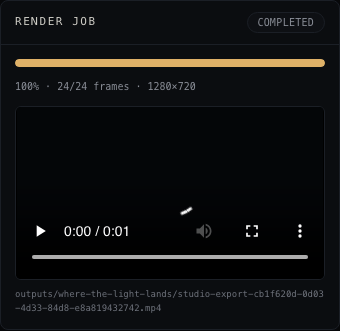
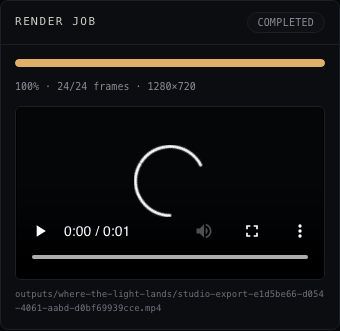
docs(report): record phase 4 completion

diff --git a/docs/reports/PHASE_04_REPORT.md b/docs/reports/PHASE_04_REPORT.md
@@ -1,0 +1,379 @@
+# Phase 4 Report — Zero-API-Cost Animation Engine & 30-Second Story
+
+- **Phase:** 4 — Local composition, motion, camera, and offline film export
+- **Date:** 2026-11-10
+- **Branch:** `main`
+- **Starting HEAD:** `3fc53015530f911bb1c77fbf3865f6cbc6a21b02`
+- **Final implementation HEAD before this report:** `38b6ff03501b102a1ac932002c5f80d48c66963b`
+- **Report commit:** the commit containing this report
+- **Paid API calls:** **0**
+- **Remote push:** **None**
+- **Phase 5:** **Not started**
+
+## A. Executive Summary
+
+Fableon can now produce a complete **30.000-second, 1920×1080, 24 fps MP4** entirely
+locally.
+
+The film **Where the Light Lands** contains four deterministic shots:
+
+1. Awakening Forest
+2. Little Bird in Flight
+3. The Landing
+4. A Place to Rest
+
+It uses the existing nine-part Little Bird rig, a reusable motion-preset package, a
+deterministic cinematic camera, a conservative two-plane parallax environment, seeded
+ambient effects, explicit transitions and titles, and a single Canvas 2D renderer shared by
+the Studio preview and the offline exporter. Chromium rasterizes frames; FFmpeg encodes the
+MP4. No paid image/video provider or cloud renderer is contacted.
+
+The final MP4 was decoded end to end and verified:
+
+```text
+Path: outputs/where-the-light-lands/final.mp4
+Duration: 30.000 s
+Frames: 720
+FPS: 24
+Resolution: 1920×1080
+Codec: H.264
+Audio: none
+Decode check: PASS (exit 0)
+SHA-256: 61ef10891b96d09eeb06d88bf8bcd9b2477b30514ff87b9d5e64a8e8ea88bf62
+```
+
+Artistic quality is **not self-certified**. The character remains candidate artwork with
+visible cutout seams and fringing. The film is an engineering-complete local production
+milestone and a reviewable storybook animatic, not production-ready illustration.
+
+## B. Repository State
+
+- **Starting branch:** `main`
+- **Starting working tree:** clean
+- **Starting HEAD:** `3fc5301` — Phase 3 completion report
+- **Final implementation HEAD before report:** `38b6ff0`
+- **Final report commit:** this commit
+- **Working tree after the report:** clean
+
+All Phase 0–3 systems remain present:
+
+- `/` homepage
+- `/studio` deterministic timeline inspector
+- `/studio/assets` illustration preparation workspace
+- `/studio/projects` and Phase 3 shot/review workspace
+- all Phase 2, 2.5, 2.6, and 2.7 Gate 2 benchmark routes
+- historical benchmark artifacts and project data
+
+No scene-schema contract was replaced. No historical benchmark media was modified.
+
+## C. Feature Implementation
+
+| Feature                    | Commit                                                                                 | Implementation                                                                                                                                   | Tests / acceptance                                                                                                           |
+| -------------------------- | -------------------------------------------------------------------------------------- | ------------------------------------------------------------------------------------------------------------------------------------------------ | ---------------------------------------------------------------------------------------------------------------------------- |
+| 4.1 Multi-shot timeline    | `571a62837b33d403763e1c8fb99efb1c18ae0759`                                             | `packages/composition-core`: contiguous shot validation, global/local frame mapping, 720-frame timeline, explicit transitions, title evaluation  | 7 tests: boundaries 0/143/144/359/360/527/528/719, invalid frames, determinism, immutability, transition and title semantics |
+| 4.2 Camera engine          | `caf81cb91005d129dbde792cc6a567533fb205ea`                                             | `packages/camera-engine`: pan/zoom/target, bounds clamping, easing, world/screen transforms, parallax matrices                                   | 5 tests: interpolation, bounds, transforms, relative depth movement, determinism                                             |
+| 4.3 Layered parallax       | `4bea2059e7a937fc55a7befdfd8f32a11b8cf89e`                                             | `apps/web/lib/film/environment.ts`: two-plane environment contract and camera-space layer transforms                                             | 2 tests: layer ordering and relative movement                                                                                |
+| 4.4 Reusable motion        | `20486bbae431dc6776a9c79e9bd5a42a08553cd3`                                             | `packages/character-motion`: nine-part base rig, flight/glide/landing/idle presets, exact foot-contact solver                                    | 8 tests: rig, wing articulation, path, contact stability, reuse, idle blink, determinism, no mutation                        |
+| 4.5 Ambient forest         | `3c2d38d425c2f77120b8a2547fd2daab7c5cbcb1`                                             | `apps/web/lib/film/ambient.ts`: seeded pollen, leaves, sunlight and mist evaluated from absolute frames                                          | 2 tests: direct-frame stability and seed determinism                                                                         |
+| 4.6 Transitions and titles | `f3f73b97a491606414fd5732e7bc5750a2681628`                                             | Title wrapping/layout and explicit composition transition semantics                                                                              | 3 title layout tests plus 7 composition timeline tests                                                                       |
+| 4.7 Offline export         | `f63575cc3a74fcabb353048a3217e672dc0715fd`                                             | Shared `FilmRenderer`, four-shot spec, Chromium frame rasterization, FFmpeg image2pipe encode, ffprobe/decode verification, artifacts, manifests | Checkpoint 5 s and full 30 s renders; 720 frames decoded; 1920×1080/24 fps/30.000 s verified                                 |
+| 4.8 Studio composition     | `fc052785fac1700013b642afd3389a9e019dc45c`                                             | `/studio/composition` Canvas preview, shot navigation, scrub/play, resolution selector, export controls, job polling/cancel/video service        | Browser tests: load, four shots, boundaries, camera/wing/contact/title state, real 24-frame export and playable result       |
+| Studio fixes               | `2df14cc8ca419f158e3e6c1fc1b9f25eca466a1f`, `0fab3e4fd84a46acd02a94a688f2c12fa71a4a67` | Exposed frame/camera state, Phase 4 label, local-server reuse                                                                                    | Covered by Phase 4 browser tests                                                                                             |
+| 4.9 Demo story artifacts   | `01964b0a7fa9e2af51a2cd799fbf5b762a2d79e2`                                             | Storyboard, shot specification, provenance, quality assessment, selected frames, contact sheet, timeline diagram, performance/manifest copies    | All files verified on disk; final MP4 rendered and inspected                                                                 |
+| Formatting                 | `5e1ce60669562d3f5403515db6f040d7c1a83bfe`                                             | Prettier formatting for benchmark documents                                                                                                      | `format:check` pass                                                                                                          |
+| 4.10 Regression tests      | `057a4d72b81a63d0b87c76ead5bf42a8bdc769d7`                                             | Phase 4 browser suite, composition route regression, stable phase-02 route assertion                                                             | 51 browser tests pass; 247 unit tests pass                                                                                   |
+| Documentation              | `38b6ff03501b102a1ac932002c5f80d48c66963b`                                             | README and architecture update for the film pipeline                                                                                             | Documentation-only verification                                                                                              |
+
+## D. Architecture
+
+### Composition manifest
+
+`packages/composition-core` defines a film as ordered shots with integer start frames,
+frame counts, camera track IDs, character motion IDs, rendering method, transition-in,
+optional transition-out, and notes. It is additive and separate from the versioned
+Phase 1 scene schema and Phase 3 Studio project model.
+
+### Timeline
+
+`evaluateCompositionFrame(composition, globalFrame)` validates the entire composition and
+returns:
+
+- global frame;
+- shot and shot index;
+- local frame;
+- previous shot/local frame during a crossfade;
+- incoming/previous/black opacity;
+- active titles with opacity.
+
+Crossfades hold the previous shot's last frame for the first 12 frames of the incoming shot
+without changing the 720-frame output length. Fade-from-black and fade-to-black are also
+within the global frame budget.
+
+### Camera
+
+`packages/camera-engine` samples keyframed camera centers, zoom, and rotation with easing.
+It clamps the viewport inside the 2400×1350 world, exposes world/screen transforms, and
+provides depth-aware layer matrices. The camera is independent of the character rig.
+
+### Parallax
+
+The available source artwork is one painted forest plate derived from the Phase 2.8 start
+frame. The implementation is deliberately conservative:
+
+- a softened distant copy at depth 0.18;
+- the primary painted plate at depth 0.55;
+- screen-space light, mist, pollen, and leaf sway.
+
+This is documented as a two-plane approximation, not a repainted multilayer forest.
+
+### Motion
+
+`packages/character-motion` defines the reusable nine-part Little Bird base rig and four
+presets. It uses `@fableon/sprite-motion` hierarchy evaluation. The landing preset solves
+the body Y position so the lower foot is exactly at the branch world Y, preserving the
+contact guarantee. The historical Phase 2.5/2.7 benchmarks are untouched.
+
+### Ambient effects
+
+Ambient state is a pure function of absolute global frame and seed. Particles, leaves,
+sunlight, and mist do not accumulate state. Direct frame 400 evaluation is identical to
+repeated evaluation.
+
+### Renderer
+
+`apps/web/lib/film/renderer.ts` is the single Canvas 2D renderer used by:
+
+- `/studio/composition` preview;
+- `/studio/composition/render` export surface.
+
+It draws two environment planes, the posed character, atmosphere, titles, crossfades, and
+black fades into a canonical 1920×1080 canvas, then scales to the requested 16:9 output.
+
+### Export pipeline
+
+`scripts/render-phase-04.mjs`:
+
+1. starts or reuses a local Next server;
+2. loads the render surface in headless Chromium;
+3. requests each frame as a PNG data URL;
+4. streams PNG frames into local FFmpeg `image2pipe`;
+5. encodes H.264 MP4;
+6. runs ffprobe, frame-count, duration, resolution, codec, and full-decode checks;
+7. writes manifest/report/performance artifacts;
+8. records genuine progress to a persisted local job record.
+
+The Studio export API spawns the same script as a detached local process and polls its job
+file. It refuses a second active job, supports a cancellation flag, and serves the completed
+MP4 with byte-range support. Jobs are not claimed to survive server restarts.
+
+## E. Story Specification
+
+Full documents:
+
+- `docs/benchmarks/phase-04/STORYBOARD.md`
+- `docs/benchmarks/phase-04/SHOT_SPECIFICATION.md`
+
+| Shot                      | Frames  | Time    | Camera                            | Character                                                        | Atmosphere / title                                             |
+| ------------------------- | ------- | ------- | --------------------------------- | ---------------------------------------------------------------- | -------------------------------------------------------------- |
+| 1 — Awakening Forest      | 0–143   | 0–6 s   | Pan right, zoom 1.00→1.06         | none                                                             | Opening title 24–108; fade from black 12f; pollen, mist, light |
+| 2 — Little Bird in Flight | 144–359 | 6–15 s  | Follow left→right, zoom 1.02–1.04 | Flight preset, wing beats, tail follow, head stabilization       | 12f crossfade in; layered forest                               |
+| 3 — The Landing           | 360–527 | 15–22 s | Settle on branch, zoom 1.04→1.07  | Braking, leg extension, contact at global 470, wing fold, settle | 12f crossfade in; branch contact shadow                        |
+| 4 — A Place to Rest       | 528–719 | 22–30 s | Push-in 1.07→1.16                 | Idle breathing, tail/head adjustments, blink                     | 12f crossfade in; ending title 600–688; fade to black 24f      |
+
+The output is exactly 720 frames. The final frame is fully faded to black.
+
+## F. Rendering System
+
+- Canvas 2D, canonical 1920×1080, 24 fps.
+- Shared `FilmRenderer` and `evaluateFilmFrame` for preview and export.
+- Environment: two derived painted plates plus procedural atmosphere.
+- Character: nine-part hierarchical rig, candidate Phase 2.7 parts.
+- Titles: deterministic wrapping, fade opacity from composition evaluator.
+- Export: Chromium PNG frames → FFmpeg `image2pipe` → H.264 `yuv420p`, CRF 18,
+  `+faststart`.
+- Source media: local public assets; no remote URL fetching.
+- Determinism: integer frame indices, seeded ambient state, no wall-clock or accumulated
+  particle state.
+- Container bytes are not guaranteed identical across encoder environments; animation state
+  and frame order are deterministic.
+- Output is Git-ignored; review artifacts are committed.
+
+## G. Studio Integration
+
+Route: `/studio/composition`
+
+Features:
+
+- four-shot sequence cards with durations and frame ranges;
+- Canvas preview at 1280×720 or 1920×1080;
+- play/pause at 24 fps;
+- global frame scrubber with current time;
+- current shot/local frame/camera/wing/contact/title state;
+- local export range, resolution selector, start action;
+- polled genuine progress, cancel request, completed video preview;
+- clear error states and local-only/no-paid-API messaging.
+
+Screenshots:
+
+![Composition preview](phase-04/screenshots/composition-preview.png)
+
+![Composition export](phase-04/screenshots/composition-export.png)
+
+Existing Studio routes remain operational, including `/studio`, `/studio/assets`,
+`/studio/projects`, and all Phase 3 shot/review flows.
+
+## H. Generated Artifacts
+
+| Artifact           | Path                                                 | Verification                                                       |
+| ------------------ | ---------------------------------------------------- | ------------------------------------------------------------------ |
+| Final MP4          | `outputs/where-the-light-lands/final.mp4`            | 720 frames, 30.000 s, 1920×1080, 24 fps, H.264, full decode exit 0 |
[1 lines of base64/hex data omitted]
+| Render manifest    | `outputs/where-the-light-lands/render-manifest.json` | Copied to docs evidence                                            |
+| Render report      | `outputs/where-the-light-lands/render-report.json`   | Copied to docs evidence                                            |
+| Contact sheet      | `docs/benchmarks/phase-04/contact-sheet.png`         | 14 selected frames                                                 |
+| Selected frames    | `docs/benchmarks/phase-04/selected-frames/`          | 14 actual rendered frames                                          |
+| Storyboard         | `docs/benchmarks/phase-04/STORYBOARD.md`             | Present                                                            |
+| Shot specification | `docs/benchmarks/phase-04/SHOT_SPECIFICATION.md`     | Present                                                            |
+| Asset provenance   | `docs/benchmarks/phase-04/ASSET_PROVENANCE.md`       | Present                                                            |
+| Quality assessment | `docs/benchmarks/phase-04/QUALITY_ASSESSMENT.md`     | Present                                                            |
+| Timeline diagram   | `docs/benchmarks/phase-04/timeline-diagram.png`      | Present                                                            |
+| Performance data   | `docs/benchmarks/phase-04/performance.json`          | Present                                                            |
+| Manifest copy      | `docs/benchmarks/phase-04/render-manifest.json`      | Present                                                            |
+| Report copy        | `docs/benchmarks/phase-04/render-report.json`        | Present                                                            |
+
+The selected frames were saved at 960×540 for review. The final video is the canonical
+1920×1080 artifact and remains in the Git-ignored output directory.
+
+## I. Tests & Verification
+
+| Check                 | Result                                                  |
+| --------------------- | ------------------------------------------------------- |
+| `pnpm install`        | PASS                                                    |
+| `pnpm format:check`   | PASS                                                    |
+| `pnpm lint`           | PASS                                                    |
+| `pnpm typecheck`      | PASS                                                    |
+| `pnpm test`           | PASS — **34 files, 247 tests**                          |
+| `pnpm build`          | PASS — 12 routes/pages, no build warnings               |
+| `pnpm test:browser`   | PASS — **51/51 tests**                                  |
+| 5 s checkpoint render | PASS — 120 frames, 5.000 s, 1280×720                    |
+| Full film render      | PASS — 720 frames, 30.000 s, 1920×1080                  |
+| Final FFprobe         | PASS — H.264, 1920×1080, 24/1, 720 frames, 30.000 s     |
+| Full decode           | PASS — `ffmpeg -f null -` exit 0                        |
+| Audio                 | Absent, as intended                                     |
+| Studio export job     | PASS — 24-frame 1280×720 job completed and video played |
+| Existing routes       | PASS — homepage, Studio, assets, projects, benchmarks   |
+| Paid API calls        | **ZERO**                                                |
+
+Browser coverage includes:
+
+- composition route load;
+- four-shot sequence;
+- exact boundary scrubbing;
+- real Canvas pixel changes;
+- camera movement;
+- wing articulation;
+- foot contact at global frame 470;
+- ending title and final black;
+- real export initiation, progress, completed video playback;
+- all existing routes and Phase 3 workflows.
+
+## J. Performance
+
+Full 1920×1080 render on the current Apple M1 / 8 GB machine:
+
+| Metric                    |                        Value |
+| ------------------------- | ---------------------------: |
+| First-frame render        |                     113.4 ms |
+| Median frame render       |                     246.1 ms |
+| p95 frame render          |                     325.1 ms |
+| Total frame rasterization |        181,089 ms (~3.0 min) |
+| FFmpeg encoding           |                     1,043 ms |
+| Total wall time           |        182,132 ms (~3.0 min) |
+| Output size               | 15,419,466 bytes (~14.7 MiB) |
+| Rendered frames           |                          720 |
+| Audio                     |                         None |
+
+The 1280×720 5-second checkpoint rendered 120 frames in ~21.7 s wall time with a 168 ms
+median frame time. Offline export is intentionally not real-time; correctness and stable
+output take priority.
+
+## K. Known Limitations
+
+1. **Character artwork is candidate quality.** Visible head/body seams, wing-root halos,
+   white fringe, and low-resolution feather edges remain.
+2. **Environment plate is soft.** It is an upscaled 852×479 crop from the Phase 2.8 start
+   frame, not a native 1080p painting. Parallax uses two derived planes, not a true
+   multilayer repaint.
+3. **Motion is sprite articulation.** Wings, head, tail, and legs rotate as hierarchical
+   cutout pieces. There is no feather deformation, skeletal mesh, IK, or soft-body settle.
+4. **Landing is mathematically exact but visually stiff.** The foot-contact solver meets
+   the branch height precisely; the surrounding body/feather deformation is limited.
+5. **Shot 1 is intentionally slow.** The camera reveal may feel static to some viewers.
+6. **Crossfade rule is explicit but simple.** The outgoing shot is held on its last frame
+   for the 12-frame crossfade; the first frame of the incoming shot is an overlay, not a
+   fully independent scene frame.
+7. **No audio.** The film is silent. Narration/music are outside Phase 4.
+8. **Local-only Studio export.** Render jobs require a persistent local server; jobs are not
+   claimed to survive server restarts.
+9. **Full renders take minutes.** A 30 s 1080p render takes about three minutes on this
+   machine. Preview and checkpoint workflows are faster.
+10. **No automatic output cleanup.** `outputs/` is user-managed and Git-ignored.
+11. **No project backup/export.** The Phase 3 local data boundary remains.
+12. **No production deployment.** There is no authentication boundary for the write/export
+    APIs.
+
+## L. Final Gate Decisions
+
+| Gate                    | Decision                |
+| ----------------------- | ----------------------- |
+| Engineering             | **GO**                  |
+| 30-second film rendered | **YES**                 |
+| Offline rendering       | **PASS**                |
+| Studio preview          | **PASS**                |
+| MP4 export              | **PASS**                |
+| Artistic quality        | **PENDING USER REVIEW** |
+| Production readiness    | **NOT READY**           |
+
+The engineering gate is met with actual footage. The artistic gate is not self-certified:
+the film is a complete local pipeline demonstration with known candidate-art limitations.
+
+## M. Phase 5 Recommendation
+
+Do not begin Phase 5 automatically.
+
+Based on the actual result, the highest-impact next phase is **approved character and
+environment artwork at native production resolution**, not more animation infrastructure.
+The current motion/camera/timeline systems are functional; the limiting factor is the
+candidate bird parts and the upscaled forest plate.
+
+A focused next phase should:
+
+1. Replace the nine candidate bird parts with approved, higher-resolution painted parts.
+2. Produce a native 1920×1080 (or larger) forest plate with real separable depth layers.
+3. Re-run the same film specification and offline exporter to measure visual improvement
+   without changing the pipeline.
+4. Add audio only after the visual assets are accepted.
+
+This is a recommendation, not an authorization to start Phase 5.
+
+## Repository and Commit History
+
+```text
+571a62837b33d403763e1c8fb99efb1c18ae0759 feat(composition): implement deterministic multi-shot timeline
+caf81cb91005d129dbde792cc6a567533fb205ea feat(camera): add deterministic cinematic camera transforms
+20486bbae431dc6776a9c79e9bd5a42a08553cd3 feat(motion): create reusable character animation presets
+4bea2059e7a937fc55a7befdfd8f32a11b8cf89e feat(environment): add layered parallax rendering
+3c2d38d425c2f77120b8a2547fd2daab7c5cbcb1 feat(environment): add deterministic ambient forest animation
+f3f73b97a491606414fd5732e7bc5750a2681628 feat(composition): add scene transitions and story titles
+f63575cc3a74fcabb353048a3217e672dc0715fd feat(export): implement offline animated video rendering
+fc052785fac1700013b642afd3389a9e019dc45c feat(studio): add multi-shot composition preview and export
+2df14cc8ca419f158e3e6c1fc1b9f25eca466a1f fix(studio): expose composition frame state and phase label
+0fab3e4fd84a46acd02a94a688f2c12fa71a4a67 fix(export): reuse available local server
+01964b0a7fa9e2af51a2cd799fbf5b762a2d79e2 feat(demo): create complete thirty-second illustrated story
+5e1ce60669562d3f5403515db6f040d7c1a83bfe style(docs): format phase 4 benchmark documents
+057a4d72b81a63d0b87c76ead5bf42a8bdc769d7 test(composition): validate offline film rendering workflow
+38b6ff03501b102a1ac932002c5f80d48c66963b docs(composition): document phase 4 film pipeline
+<report> docs(report): record phase 4 completion
+```
+
+No push was performed. No Phase 5 work was started.
